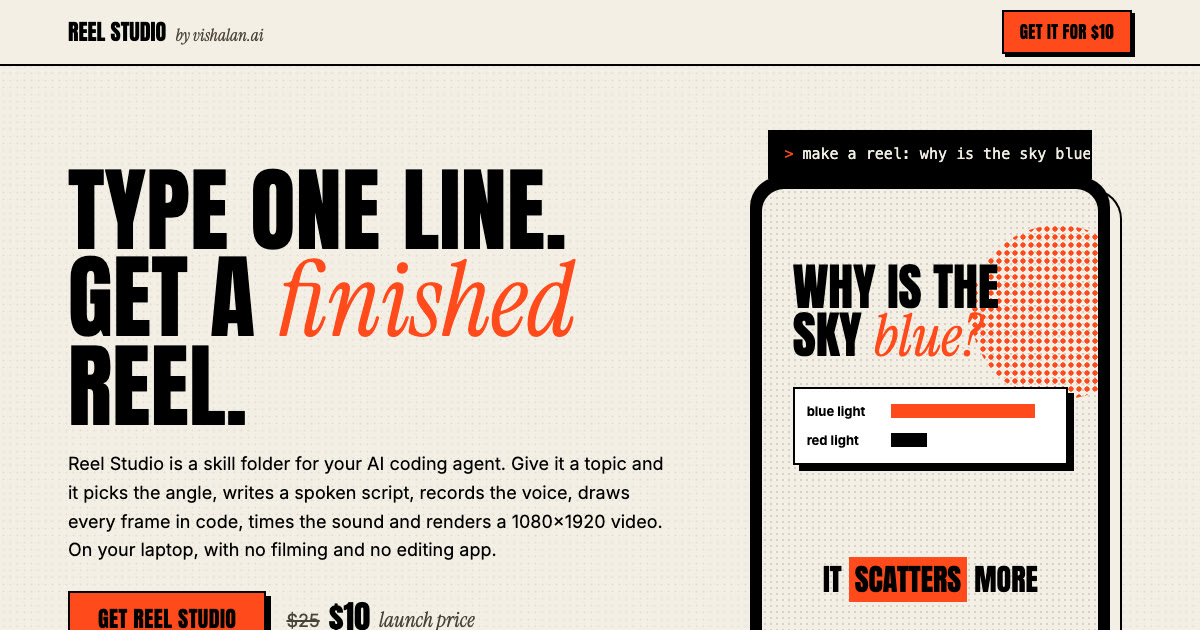
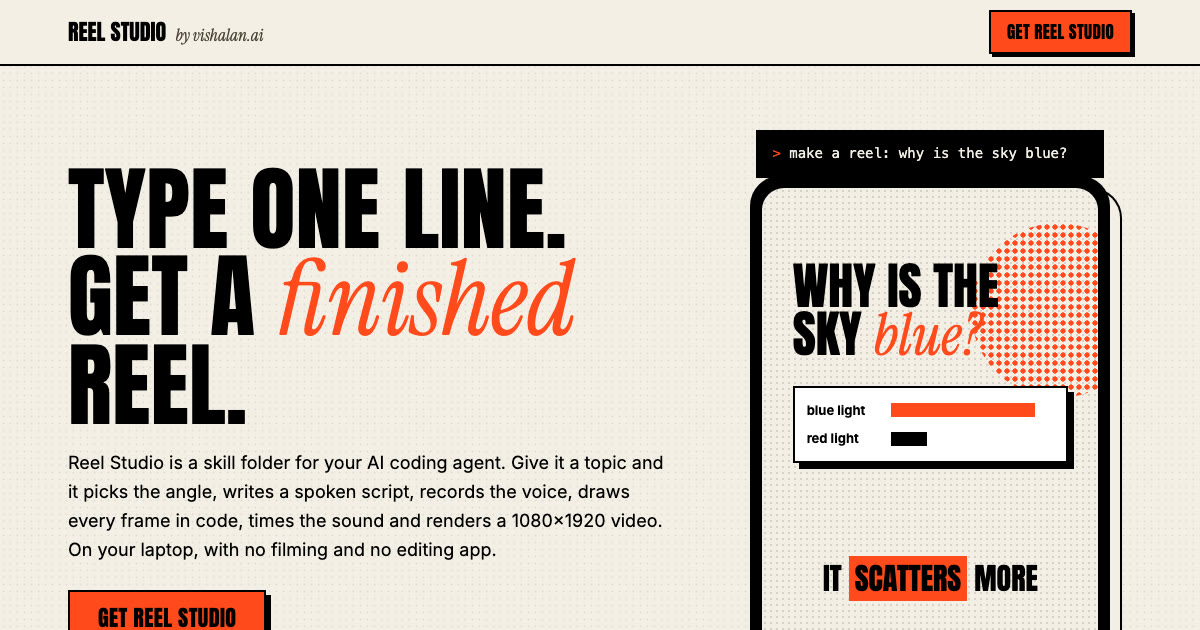
Reel Studio: no price on the site; Gumroad shows it
Claude-Session: https://claude.ai/code/session_013RkfgxmPKrofqSyyvFqRrJ

diff --git a/reel-studio/index.html b/reel-studio/index.html
@@ -36,7 +36,7 @@ sitemap: true
 <header class="bar">
   <div class="wrap bar-in">
     <a class="mark" href="#top" aria-label="Reel Studio, back to top">Reel Studio <span>by vishalan.ai</span></a>
-    <a class="btn btn-sm js-buy" href="https://vishalan.gumroad.com/l/reel-studio/launch?wanted=true">Get it for $10</a>
+    <a class="btn btn-sm js-buy" href="https://vishalan.gumroad.com/l/reel-studio/launch?wanted=true">Get Reel Studio</a>
   </div>
 </header>
 
@@ -50,7 +50,6 @@ sitemap: true
         <p class="lede">Reel Studio is a skill folder for your AI coding agent. Give it a topic and it picks the angle, writes a spoken script, records the voice, draws every frame in code, times the sound and renders a 1080x1920 video. On your laptop, with no filming and no editing app.</p>
         <div class="price-row">
           <a class="btn js-buy" href="https://vishalan.gumroad.com/l/reel-studio/launch?wanted=true">Get Reel Studio</a>
-          <p class="price"><s>$25</s> <strong>$10</strong> <span>launch price</span></p>
         </div>
         <a class="watch" href="#walkthrough">Watch how it works</a>
         <p class="agents">Works with Claude Code, Claude Desktop, Codex, Antigravity and Cursor.</p>
@@ -303,7 +302,7 @@ sitemap: true
     <div class="wrap final-in">
       <span class="stamp stamp-c" aria-hidden="true">Pay once</span>
       <h2 class="display h1">Your next reel is one line away.</h2>
-      <p class="price price-lg"><s>$25</s> <strong>$10</strong> <span>launch price, updates included</span></p>
+      <p class="fine">Pay once, updates included.</p>
       <a class="btn btn-lg js-buy" href="https://vishalan.gumroad.com/l/reel-studio/launch?wanted=true">Get Reel Studio</a>
       <p class="fine">Checkout and delivery through Gumroad.</p>
     </div>

diff --git a/index.html b/index.html
@@ -149,7 +149,7 @@ image: /img/og-home.png
                         <div class="container-fluid">
                             <div class="section-title"><h2>Products</h2></div>
                             <a class="product-card" href="{{ '/reel-studio/' | relative_url }}">
-                                <span class="product-tag">New, $10 launch price</span>
+                                <span class="product-tag">New</span>
                                 <h3>Reel Studio</h3>
                                 <p>A skill for AI coding agents that turns one line of text into a narrated, code-drawn 1080x1920 reel, rendered on your laptop. The same engine behind the daily videos on vishalan.ai.</p>
                                 <span class="product-link">See Reel Studio</span>
